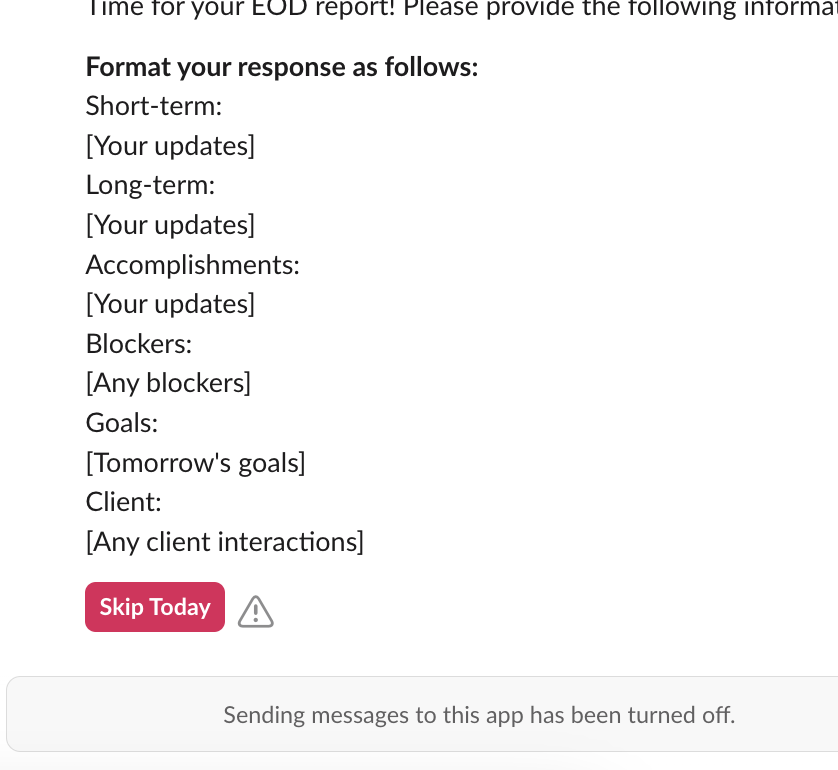
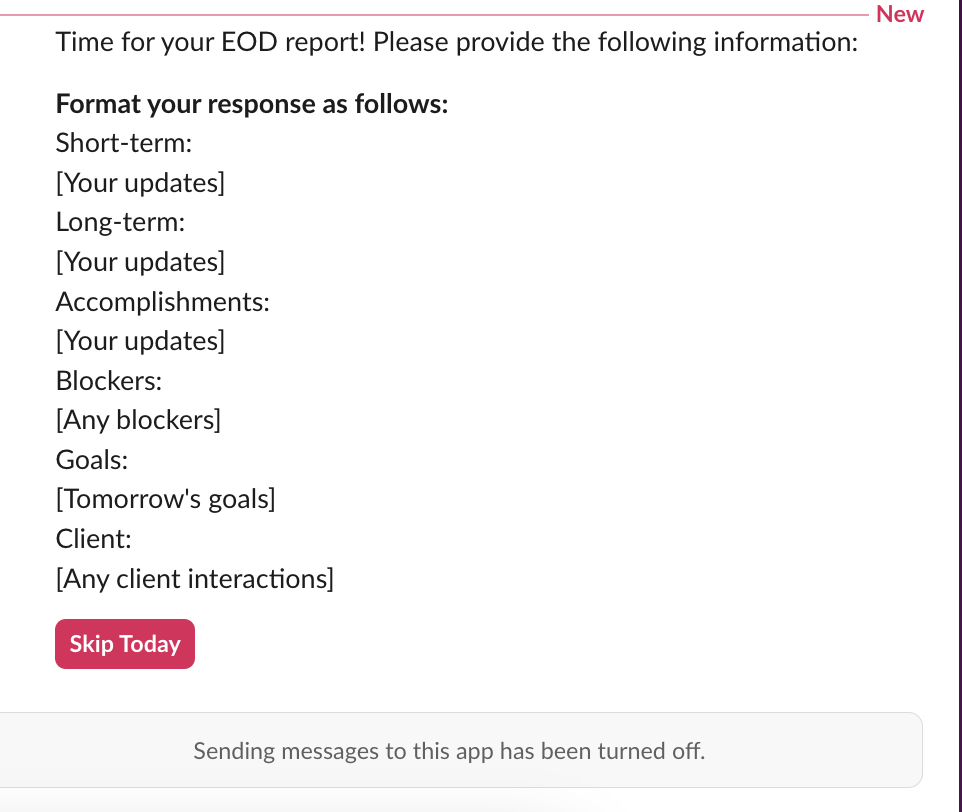
Agent query: Can you try the Skip Today button and sending a message to the bot again? Are both working now?

Changed region(s): [[0.031, 0.0, 1.0, 1.0], [0.1862, 0.9039, 0.8687, 0.9662]]

diff --git a/app.py b/app.py
@@ -3,11 +3,12 @@ from datetime import datetime
 import hmac
 import hashlib
 import logging
+import json
+import os
 from config import Config
 from models import EODReport, SubmissionTracker
 from slack_bot import SlackBot
 from firebase_client import FirebaseClient
-import os
 from firebase_admin import firestore
 
 # Set up logging with more detailed formatting
@@ -128,21 +129,39 @@ def handle_message(event):
     try:
         text = event.get('text', '').lower()
         user_id = event.get('user')
+        channel_type = event.get('channel_type', '')
         
         logger.debug(f"Processing message from user {user_id}: {text}")
         
-        if text == 'eod report':
-            # Send EOD report prompt
-            slack_bot.send_eod_prompt(user_id)
-        elif text.startswith('submit eod:'):
-            # Handle EOD submission
-            handle_eod_submission(event)
-        elif text == 'status':
-            # Check submission status
-            slack_bot.send_status_update(user_id)
-        elif text == 'help':
-            # Send help message
-            slack_bot.send_help_message(user_id)
+        # Skip if this is a bot message
+        if event.get('bot_id') or event.get('subtype') == 'bot_message':
+            return
+            
+        # Handle direct messages
+        if channel_type == 'im':
+            if text == 'eod report':
+                # Send EOD report prompt
+                slack_bot.send_eod_prompt(user_id)
+            elif text.startswith('submit eod:'):
+                # Handle EOD submission
+                handle_eod_submission(event)
+            elif text == 'status':
+                # Check submission status
+                slack_bot.send_status_update(user_id)
+            elif text == 'help':
+                # Send help message
+                slack_bot.send_help_message(user_id)
+            else:
+                # Try to parse as EOD report
+                try:
+                    report = EODReport.create_from_text(user_id, text)
+                    if firebase_client:
+                        firebase_client.save_eod_report(user_id, report.to_dict())
+                        slack_bot.post_report_to_channel(report.to_dict())
+                        slack_bot.send_message(user_id, "Thank you! Your EOD report has been submitted.")
+                except Exception as e:
+                    logger.error(f"Error processing EOD report: {str(e)}")
+                    slack_bot.send_message(user_id, "I couldn't process that as an EOD report. Try using the format shown in the prompt, or type 'help' for instructions.")
             
     except Exception as e:
         logger.error(f"Error handling message: {str(e)}")
@@ -245,6 +264,63 @@ def slack_commands():
         }), 500
 
 @app.route('/dashboard')
+@app.route('/slack/interactivity', methods=['POST'])
+def slack_interactivity():
+    """Handle Slack interactive components"""
+    try:
+        # Verify request signature
+        timestamp = request.headers.get('X-Slack-Request-Timestamp', '')
+        signature = request.headers.get('X-Slack-Signature', '')
+        
+        if not timestamp or not signature:
+            logger.warning("Missing Slack verification headers")
+            return jsonify({'error': 'missing_headers'}), 400
+            
+        if abs(datetime.now().timestamp() - float(timestamp)) > 60 * 5:
+            logger.warning("Request timestamp too old")
+            return jsonify({'error': 'invalid_timestamp'}), 403
+            
+        sig_basestring = f"v0:{timestamp}:{request.get_data(as_text=True)}"
+        my_signature = 'v0=' + hmac.new(
+            Config.SLACK_SIGNING_SECRET.encode(),
+            sig_basestring.encode(),
+            hashlib.sha256
+        ).hexdigest()
+        
+        if not hmac.compare_digest(my_signature, signature):
+            logger.warning("Invalid request signature")
+            return jsonify({'error': 'invalid_signature'}), 403
+        
+        # Parse the payload
+        payload = json.loads(request.form.get('payload', '{}'))
+        
+        if payload.get('type') == 'block_actions':
+            # Handle button clicks
+            for action in payload.get('actions', []):
+                if action.get('value') == 'skip_eod':
+                    user_id = payload.get('user', {}).get('id')
+                    if user_id:
+                        # Mark as skipped in tracker
+                        if firebase_client:
+                            tracker = SubmissionTracker(
+                                user_id=user_id,
+                                date=datetime.utcnow().date(),
+                                submitted=True,
+                                reminder_count=0
+                            )
+                            firebase_client.save_tracker(tracker.to_dict())
+                        
+                        return jsonify({
+                            'response_type': 'ephemeral',
+                            'text': 'EOD report skipped for today.'
+                        })
+        
+        return jsonify({'status': 'ok'})
+        
+    except Exception as e:
+        logger.error(f"Error handling interactive component: {str(e)}")
+        return jsonify({'error': 'internal_error'}), 500
+
 def dashboard():
     """Render submission status dashboard"""
     try:
